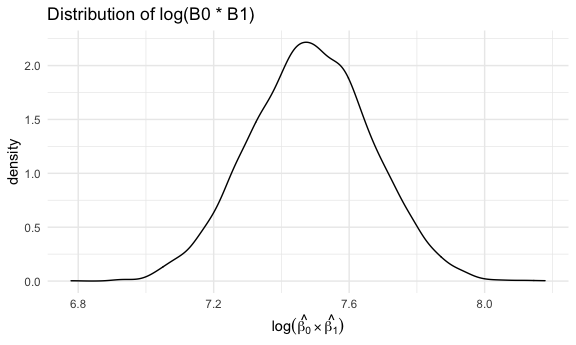
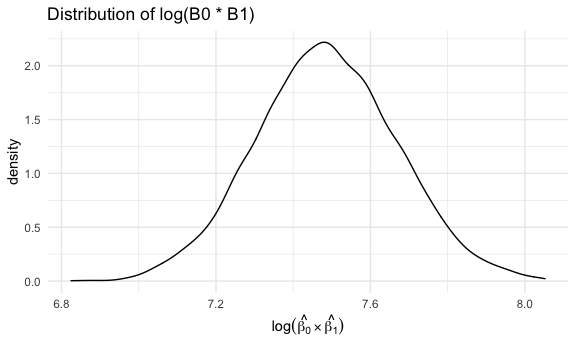
updating analysis of distribution plots in problem 2

diff --git a/p8105_hw6_rr3423.md b/p8105_hw6_rr3423.md
@@ -581,9 +581,8 @@ bootstrap_results %>%
 
 <img src="p8105_hw6_rr3423_files/figure-gfm/r_plot-1.png" width="90%" />
 
-The distribution of *r̂*<sup>2</sup> appears relatively normal, though
-there is a slightly heavy left tail extending to low values which could
-suggest the presence of some outliers in the dataset.
+The distribution of *r̂*<sup>2</sup> appears relatively normal with a
+bell-shaped curve.
 
 ### Getting the 95% confidence intervals for the two quantities
 
@@ -609,7 +608,7 @@ bootstrap_results %>%
 
 | Quantity  | ci\_lower | ci\_upper |
 |:----------|----------:|----------:|
-| log       |     7.143 |     7.833 |
+| log       |     7.129 |     7.849 |
 | r.squared |     0.894 |     0.927 |
 
 The 95% confidence interval for log (*β̂*<sub>0</sub> \* *β̂*<sub>1</sub>)
